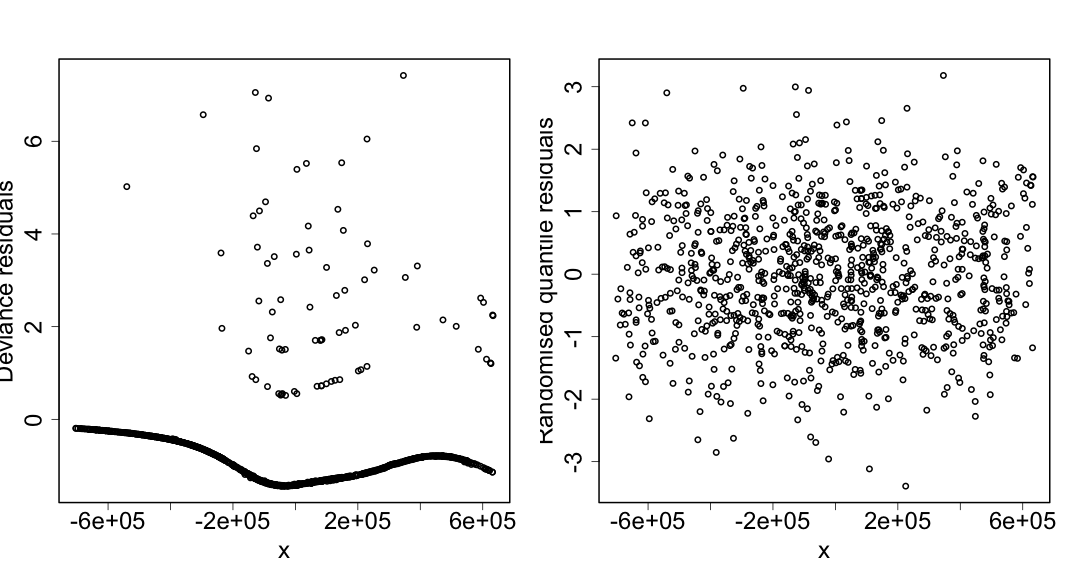
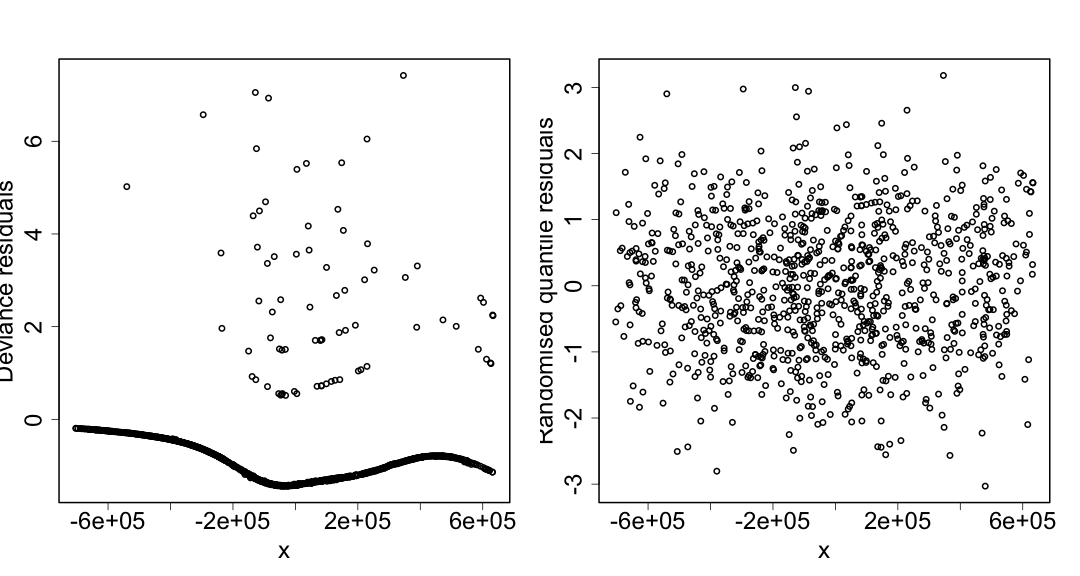
obs_exp

diff --git a/slides/dsm4-model_checking.html b/slides/dsm4-model_checking.html
@@ -78,7 +78,7 @@ gam.check(dsm_tw_xy_depth)
 ## 
 ##             k'   edf k-index p-value    
 ## s(x,y)   29.00 11.11    0.65  &lt;2e-16 ***
-## s(Depth)  9.00  3.84    0.81    0.34    
+## s(Depth)  9.00  3.84    0.81    0.37    
 ## ---
 ## Signif. codes:  0 '***' 0.001 '**' 0.01 '*' 0.05 '.' 0.1 ' ' 1
 ```
@@ -148,7 +148,7 @@ gam.check(dsm_x_tw)
 ## indicate that k is too low, especially if edf is close to k'.
 ## 
 ##        k'  edf k-index p-value
-## s(x) 9.00 4.96    0.76    0.39
+## s(x) 9.00 4.96    0.76    0.38
 ```
 
 ---
@@ -166,7 +166,7 @@ gam.check(dsm_x_tw_k)
 ## 
 ## Method: REML   Optimizer: outer newton
 ## full convergence after 7 iterations.
-## Gradient range [-2.301246e-08,3.930687e-09]
+## Gradient range [-2.30124e-08,3.930703e-09]
 ## (score 409.9245 &amp; scale 6.033913).
 ## Hessian positive definite, eigenvalue range [0.7678456,302.0336].
 ## Model rank =  20 / 20 
@@ -175,7 +175,7 @@ gam.check(dsm_x_tw_k)
 ## indicate that k is too low, especially if edf is close to k'.
 ## 
 ##         k'   edf k-index p-value
-## s(x) 19.00  5.25    0.76    0.42
+## s(x) 19.00  5.25    0.76    0.35
 ```
 
 ---
@@ -264,19 +264,19 @@ resid_fit &lt;- gam(resid~s(Depth, bs="ts", k=20) +
 ## 
 ## Parametric coefficients:
 ##             Estimate Std. Error t value Pr(&gt;|t|)    
-## (Intercept)  -0.4945     0.0327  -15.12   &lt;2e-16 ***
+## (Intercept) -0.49454    0.03274   -15.1   &lt;2e-16 ***
 ## ---
 ## Signif. codes:  0 '***' 0.001 '**' 0.01 '*' 0.05 '.' 0.1 ' ' 1
 ## 
 ## Approximate significance of smooth terms:
-##            edf Ref.df     F  p-value    
-## s(Depth) 2.324     19 1.057 1.95e-05 ***
-## s(NPP)   1.845     19 0.193    0.117    
+##              edf Ref.df     F p-value    
+## s(Depth) 2.56621     19 1.230 4.9e-06 ***
+## s(NPP)   0.03322     19 0.002   0.316    
 ## ---
 ## Signif. codes:  0 '***' 0.001 '**' 0.01 '*' 0.05 '.' 0.1 ' ' 1
 ## 
-## R-sq.(adj) =  0.0267   Deviance explained = 3.09%
-## GCV = 1.0202  Scale est. = 1.0147    n = 949
+## R-sq.(adj) =  0.0241   Deviance explained = 2.67%
+## -REML =   1362  Scale est. = 1.0174    n = 949
 ```
 
 ---
@@ -330,18 +330,89 @@ class: inverse, middle, center
 - Cycle through checks, make changes recheck
 
 ---
+# Observed vs. expected
+class: inverse, middle, center
+
+---
+# Response vs. fitted values
+
+- `gam.check` "response vs. fitted values"
+- BUT smooths are "wrong" everywhere in particular
+
+![](dsm4-model_checking_files/figure-html/gamcheck-response-fitted-1.png)&lt;!-- --&gt;
+
+---
+# Summarize over covariate chunks
+
+- On average the smooth is right
+- Check aggregations of count
+- Here detection function has Beaufort as factor
+
+
+
+
+```r
+obs_exp(dsm_bad, "Beaufort_f")
+```
+
+```
+##             [0,1]    (1,2]    (2,3]    (3,4]    (4,5]
+## Observed  1.00000 95.45000 103.5500 34.70000 4.000000
+## Expected 20.28781 54.57573 136.3581 53.98742 5.949304
+```
+
+
+```r
+obs_exp(dsm_good, "Beaufort_f")
+```
+
+```
+##           [0,1]    (1,2]    (2,3]    (3,4]    (4,5]
+## Observed 1.0000 95.45000 103.5500 34.70000 4.000000
+## Expected 6.8887 45.18587 118.5747 53.81458 4.909644
+```
+
+---
+# Observed vs. expected for environmental covariates
+
+- Just need to specify the cutpoints
+
+
+```r
+obs_exp(dsm_bad, "Depth", c(0, 1000, 2000, 3000, 4000, 6000))
+```
+
+```
+##          (0,1e+03] (1e+03,2e+03] (2e+03,3e+03] (3e+03,4e+03] (4e+03,6e+03]
+## Observed   4.00000      52.53333     139.16667      35.00000       8.00000
+## Expected  85.65231      37.98341      63.40892      53.78726      30.32642
+```
+
+
+
+```r
+obs_exp(dsm_good, "Depth", c(0, 1000, 2000, 3000, 4000, 6000))
+```
+
+```
+##          (0,1e+03] (1e+03,2e+03] (2e+03,3e+03] (3e+03,4e+03] (4e+03,6e+03]
+## Observed  4.000000      52.53333      139.1667      35.00000      8.000000
+## Expected  5.308628      48.14915      128.7962      38.76013      8.359456
+```
+
+---
 # Summary
 
 - Convergence
   - Rarely an issue
-  - Check your thinking about the model
 - Basis size
   - `k` is a maximum
   - Double and see what happens
 - Residuals
   - Deviance and randomised quantile
   - check for artifacts
-- `rqgam.check` is your friend
+- Observed vs. expected
+  - Compare aggregate information
     </textarea>
 <style data-target="print-only">@media screen {.remark-slide-container{display:block;}.remark-slide-scaler{box-shadow:none;}}</style>
 <script src="https://remarkjs.com/downloads/remark-latest.min.js"></script>
